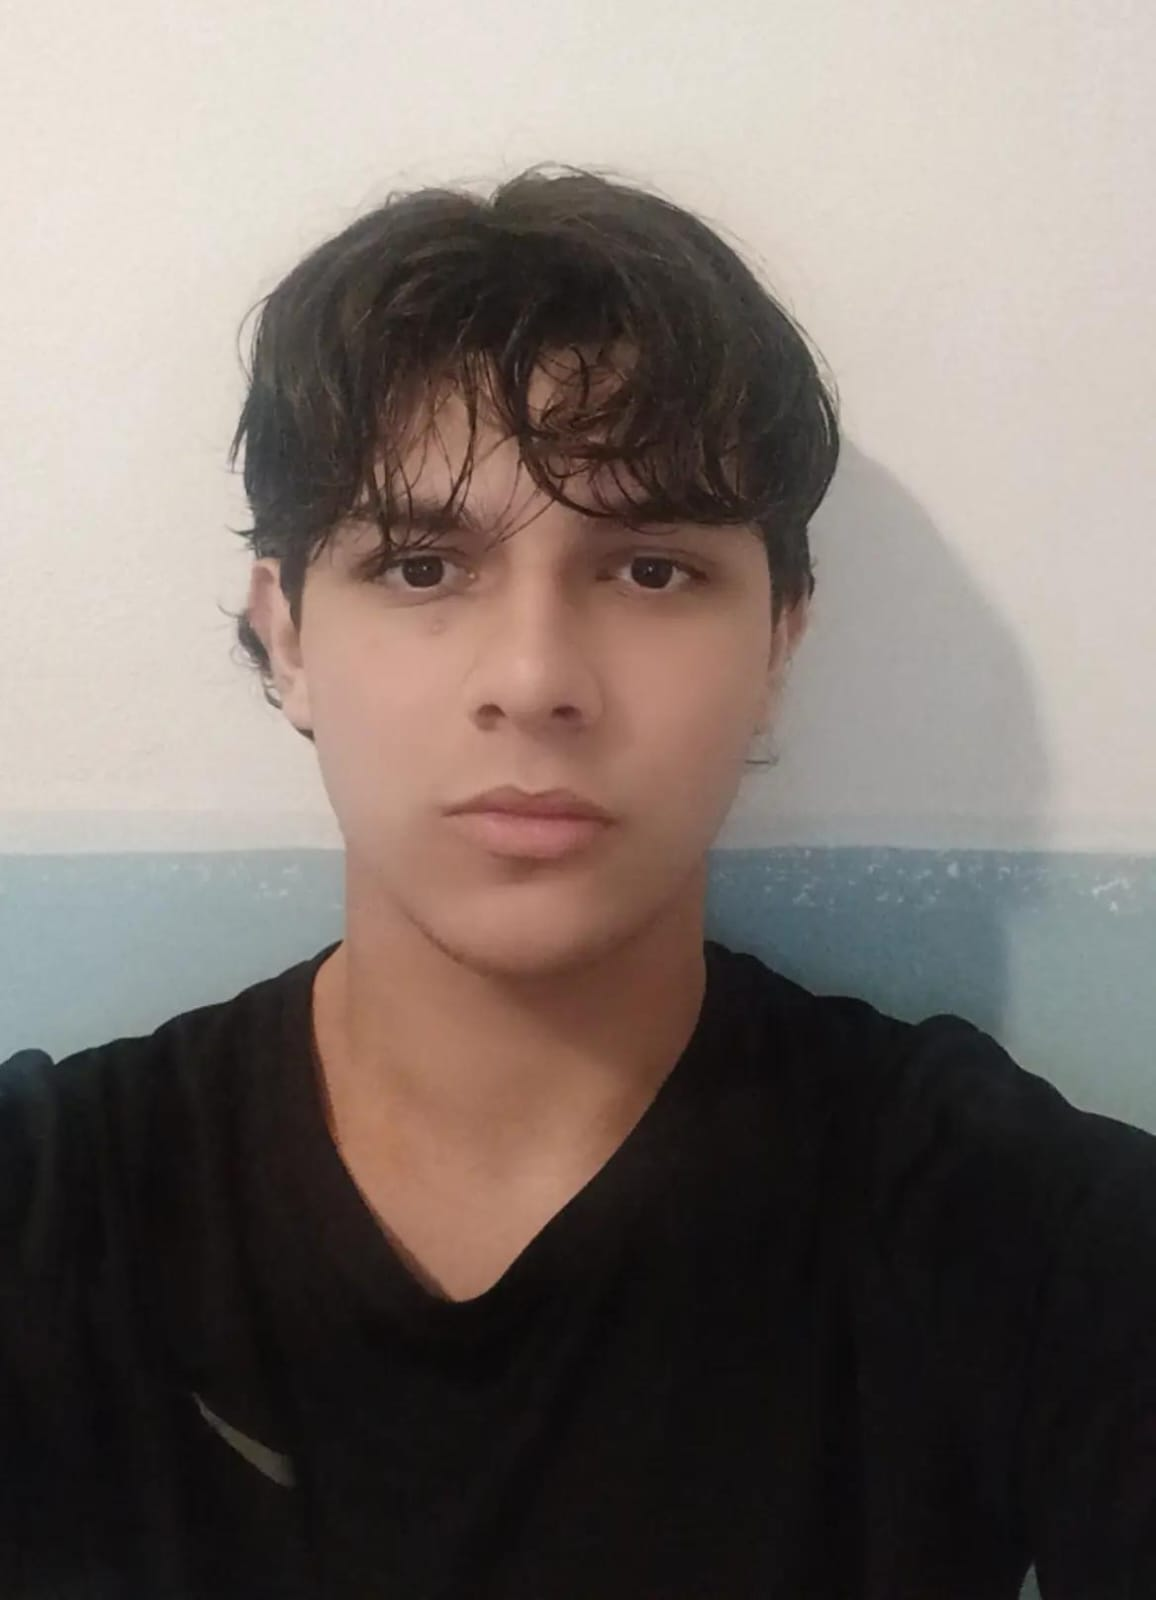
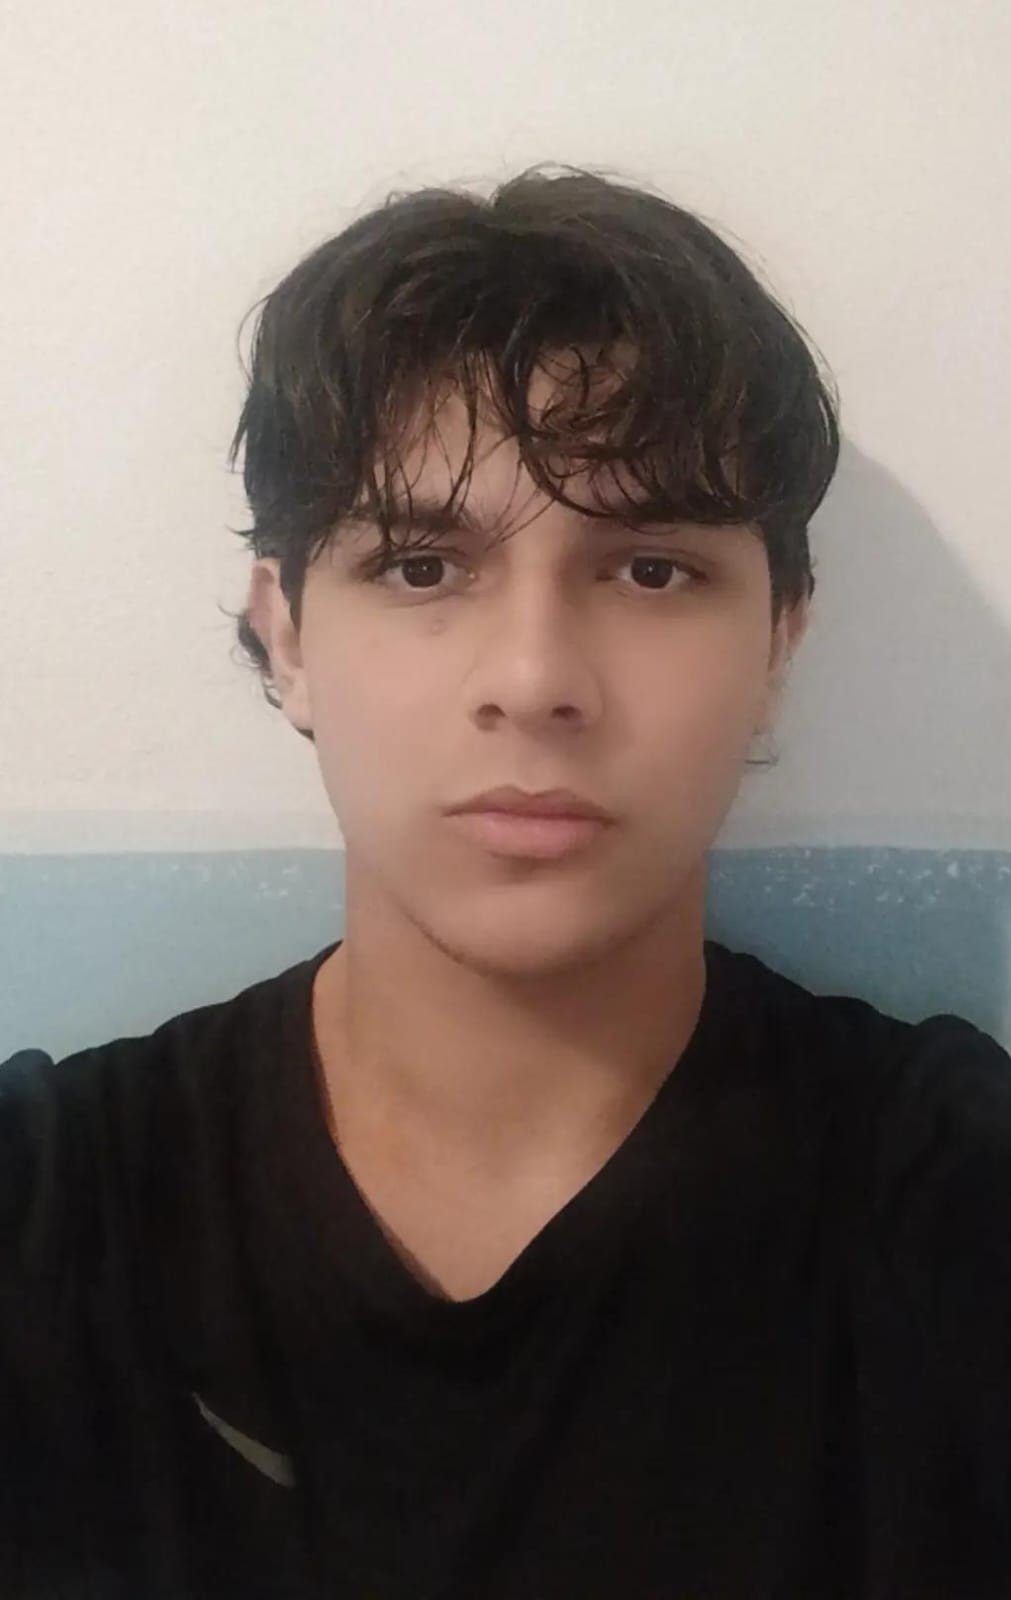
ajustes finais foto

diff --git a/index.html b/index.html
@@ -372,7 +372,7 @@
           <p>Desenvolvedor de Jogos</p>
         </li>
         <li class="membro">
-          <div class="membro__foto"><img src="./src/assets/img/kevin.jpg" alt="Foto de Kevin"></div>
+          <div class="membro__foto"><img src="./src/assets/img/kevin.jpeg" alt="Foto de Kevin"></div>
           <h4>Kevin</h4>
           <p>Desenvolvedor de Jogos</p>
         </li>
